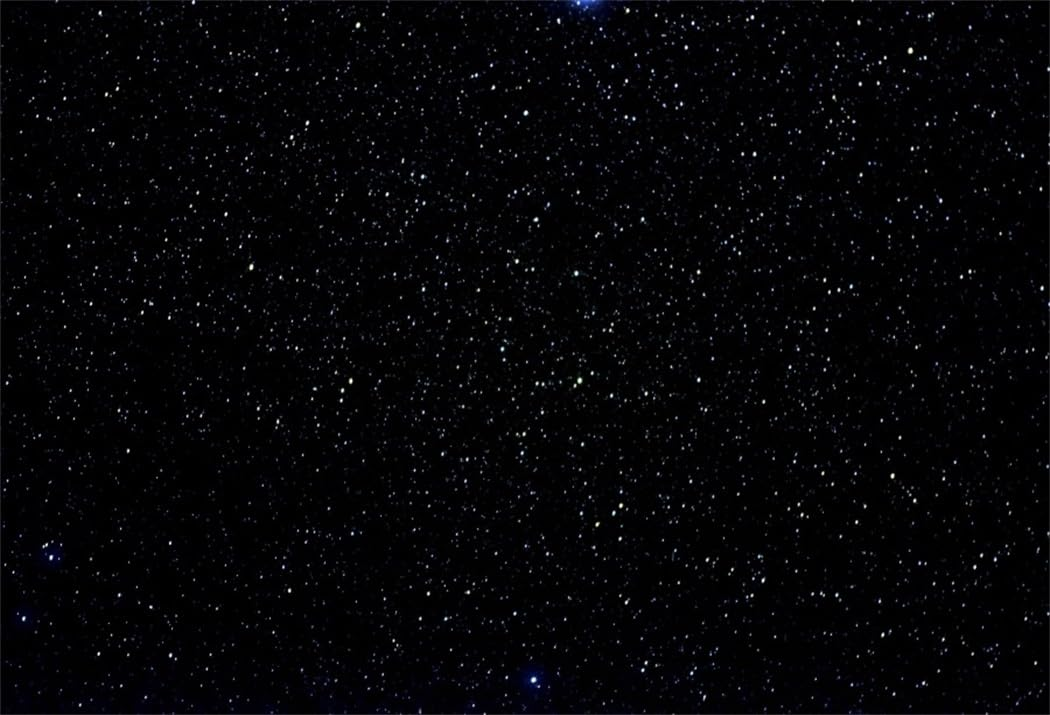
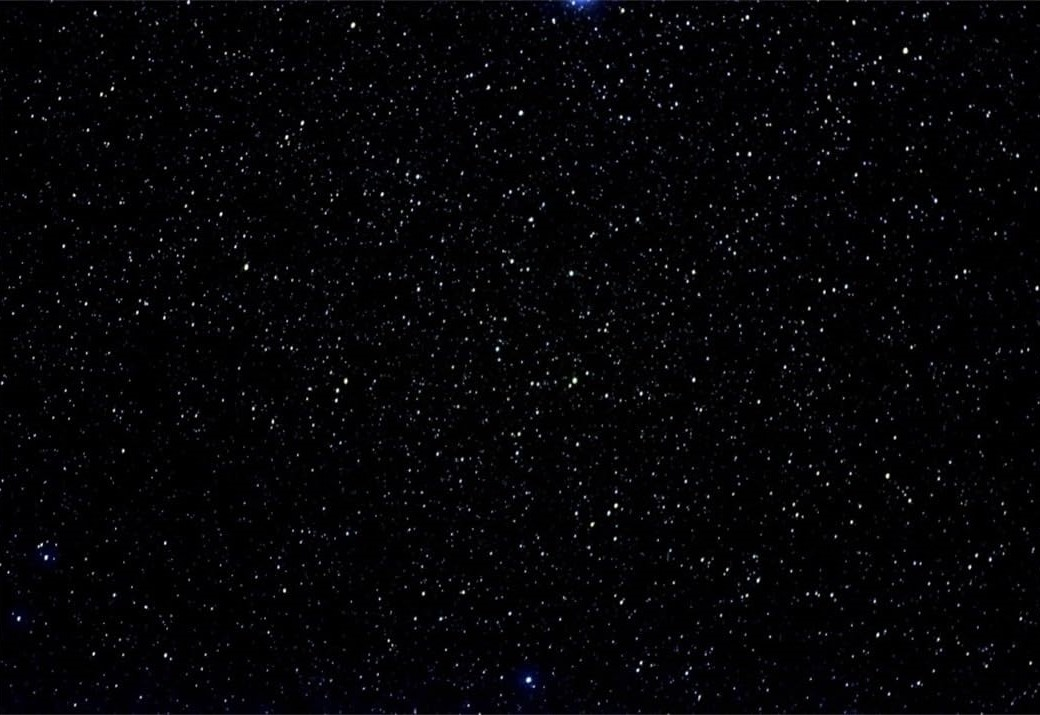
Updates

diff --git a/source/privacy-policy.html b/source/privacy-policy.html
@@ -1,0 +1,41 @@
+<!DOCTYPE html>
+<html lang="en">
+    <head>
+        <meta charset="UTF-8">
+        <!-- Title the webiste tab -->
+        <title>CappaShare</title>
+        <!-- Use the pico stylesheet because it looks cool -->
+        <link rel="stylesheet" href="/styles/style.css" type="text/css">
+        <meta name="viewport" content="width=device-width">
+        <meta name="description" content="The CappaShare website made by Casper, Sam and Noah.">
+    </head>
+    <body>
+        <nav>
+            <div class="left">
+                <a href="/"><img src="/images/logo.png"></a>
+                <a href="/"><h1>CappaShare</h1></a>
+            </div>
+            <div class="right">
+                <a href="/upload">Upload</a>
+                <a href="/download">Download</a>
+            </div>
+        </nav>
+
+        <div id="hero">
+            <h1>CappaShare</h1>
+            <h2>Our Privacy Policy</h2>
+        </div>
+
+        <p>blah blah blah blah blah blah blah blah blah blah blah blah blah blah blah blah blah blah blah blah blah blah blah blah blah blah blah blah blah blah blah blah blah blah blah</p>
+        <img src="/images/tabby.jpeg">
+        
+        <footer>
+            <p>Made by CappaBot</p>
+            <a href="/terms-of-service">Terms of Service</a>
+            <a href="/privacy-policy">Privacy Policy</a>
+            <a href="/support">Support</a>
+        </footer>
+
+        <script src="/scripts/main.js" type="text/javascript"></script>
+    </body>
+</html>

diff --git a/source/support.html b/source/support.html
@@ -1,0 +1,41 @@
+<!DOCTYPE html>
+<html lang="en">
+    <head>
+        <meta charset="UTF-8">
+        <!-- Title the webiste tab -->
+        <title>CappaShare</title>
+        <!-- Use the pico stylesheet because it looks cool -->
+        <link rel="stylesheet" href="/styles/style.css" type="text/css">
+        <meta name="viewport" content="width=device-width">
+        <meta name="description" content="The CappaShare website made by Casper, Sam and Noah.">
+    </head>
+    <body>
+        <nav>
+            <div class="left">
+                <a href="/"><img src="/images/logo.png"></a>
+                <a href="/"><h1>CappaShare</h1></a>
+            </div>
+            <div class="right">
+                <a href="/upload">Upload</a>
+                <a href="/download">Download</a>
+            </div>
+        </nav>
+
+        <div id="hero">
+            <h1>CappaShare</h1>
+            <h2>Need Help With Something?</h2>
+        </div>
+
+        <p>blah blah blah blah blah blah blah blah blah blah blah blah blah blah blah blah blah blah blah blah blah blah blah blah blah blah blah blah blah blah blah blah blah blah blah</p>
+        <img src="/images/happy.png">
+        
+        <footer>
+            <p>Made by CappaBot</p>
+            <a href="/terms-of-service">Terms of Service</a>
+            <a href="/privacy-policy">Privacy Policy</a>
+            <a href="/support">Support</a>
+        </footer>
+
+        <script src="/scripts/main.js" type="text/javascript"></script>
+    </body>
+</html>

diff --git a/source/terms-of-service.html b/source/terms-of-service.html
@@ -1,0 +1,41 @@
+<!DOCTYPE html>
+<html lang="en">
+    <head>
+        <meta charset="UTF-8">
+        <!-- Title the webiste tab -->
+        <title>CappaShare</title>
+        <!-- Use the pico stylesheet because it looks cool -->
+        <link rel="stylesheet" href="/styles/style.css" type="text/css">
+        <meta name="viewport" content="width=device-width">
+        <meta name="description" content="The CappaShare website made by Casper, Sam and Noah.">
+    </head>
+    <body>
+        <nav>
+            <div class="left">
+                <a href="/"><img src="/images/logo.png"></a>
+                <a href="/"><h1>CappaShare</h1></a>
+            </div>
+            <div class="right">
+                <a href="/upload">Upload</a>
+                <a href="/download">Download</a>
+            </div>
+        </nav>
+
+        <div id="hero">
+            <h1>CappaShare</h1>
+            <h2>The Terms and Conditions of our Site</h2>
+        </div>
+
+        <p>blah blah blah blah blah blah blah blah blah blah blah blah blah blah blah blah blah blah blah blah blah blah blah blah blah blah blah blah blah blah blah blah blah blah blah</p>
+        <img src="/images/cold.png">
+        
+        <footer>
+            <p>Made by CappaBot</p>
+            <a href="/terms-of-service">Terms of Service</a>
+            <a href="/privacy-policy">Privacy Policy</a>
+            <a href="/support">Support</a>
+        </footer>
+
+        <script src="/scripts/main.js" type="text/javascript"></script>
+    </body>
+</html>

diff --git a/source/template.html b/source/template.html
@@ -1,0 +1,39 @@
+<!DOCTYPE html>
+<html lang="en">
+    <head>
+        <meta charset="UTF-8">
+        <!-- Title the webiste tab -->
+        <title>CappaShare</title>
+        <!-- Use the pico stylesheet because it looks cool -->
+        <link rel="stylesheet" href="/styles/style.css" type="text/css">
+        <meta name="viewport" content="width=device-width">
+        <meta name="description" content="The CappaShare website made by Casper, Sam and Noah.">
+    </head>
+    <body>
+        <nav>
+            <div class="left">
+                <a href="/"><img src="/images/logo.png"></a>
+                <a href="/"><h1>CappaShare</h1></a>
+            </div>
+            <div class="right">
+                <a href="/upload">Upload</a>
+                <a href="/download">Download</a>
+            </div>
+        </nav>
+
+        <div id="hero">
+            <h1>CappaShare</h1>
+        </div>
+
+        
+        
+        <footer>
+            <p>Made by CappaBot</p>
+            <a href="/terms-of-service">Terms of Service</a>
+            <a href="/privacy-policy">Privacy Policy</a>
+            <a href="/support">Support</a>
+        </footer>
+
+        <script src="/scripts/main.js" type="text/javascript"></script>
+    </body>
+</html>

diff --git a/backend/build.ts b/backend/build.ts
@@ -4,6 +4,10 @@ const sourcePath = "source";
 const buildPath = "build";
 const fileName = "index.html";
 
+const carKeys = {
+    "<!-- NAV BAR GOES HERE -->": ["", ""],
+};
+
 console.log("Clearing build directory");
 await Deno.remove(buildPath, { recursive: true });
 
@@ -11,8 +15,10 @@ console.log("Making build directory");
 await Deno.mkdir(buildPath);
 
 const decoder = new TextDecoder("utf-8");
-const content = decoder.decode(await Deno.readFile(`./${sourcePath}/${fileName}`));
+let content = decoder.decode(await Deno.readFile(`./${sourcePath}/${fileName}`));
+
+content = content.replace("Lorem", "Yabadabadoo");
 
 // write new data
-const newdata = new TextEncoder().encode(content)
+const newdata = new TextEncoder().encode(content);
 await Deno.writeFile(`./${buildPath}/${fileName}`, newdata);

diff --git a/templates/nav.html b/templates/nav.html
@@ -1,0 +1,10 @@
+<nav>
+    <div class="left">
+        <a href="/"><img src="/images/logo.png"></a>
+        <a href="/"><h1>CappaShare</h1></a>
+    </div>
+    <div class="right">
+        <a href="/upload">Upload</a>
+        <a href="/download">Download</a>
+    </div>
+</nav>

diff --git a/source/styles/style.css b/source/styles/style.css
@@ -29,6 +29,7 @@ body {
     flex-direction: column;
     justify-content: center;
     background-size: 100%;
+    min-height: 100svh;
 }
 
 /* All elements inside the body */
@@ -38,7 +39,7 @@ body * {
 
 /* Nav bar */
 nav {
-    background-color: var(--background);
+    background-image: url("/images/biden.jpg");
     width: 90vw;
     padding: 2vh 5vw;
     top: 0;
@@ -49,7 +50,6 @@ nav {
 nav > div {
     display: flex;
     flex: auto;
-    /*padding: 0px 5%;*/
 }
 
 nav a:not(:has(img)) {
@@ -127,7 +127,6 @@ hr {
 a {
     color: var(--dark);
     text-decoration: none;
-    transition: color 100ms, font-size 200ms, background-color 500ms;
 }
 
 a:hover {

diff --git a/backend/app.ts b/backend/app.ts
@@ -35,7 +35,7 @@ async function getTheFile(filePath: string): Promise<string> {
 }
 
 // API requests are to /api
-async function apiRequest(req: Request): Promise<Response> {
+function apiRequest(req: Request): Response {
     const reqMethod = req.method;
     const reqURL = new URL(req.url);
     let reqPath = reqURL.pathname.replace("/api", "");

diff --git a/source/index.html b/source/index.html
@@ -24,7 +24,7 @@
         <div id="hero">
             <h1>CappaShare</h1>
             <h2>I have a cool slogan</h2>
-        </div>
+        </div>       
 
         <p>
             Lorem ipsum dolor sit amet, consectetur adipiscing elit. Phasellus volutpat ullamcorper est, vel pulvinar quam pulvinar eget. Vivamus malesuada mauris orci, id varius diam aliquam non. Mauris varius dignissim velit et fringilla. Aliquam nulla sem, feugiat placerat gravida feugiat, cursus faucibus nisl. Fusce id risus non sapien euismod auctor mollis id enim. Vivamus ut tellus nec nunc cursus pulvinar. Mauris efficitur mollis mauris. Donec ut nunc magna.